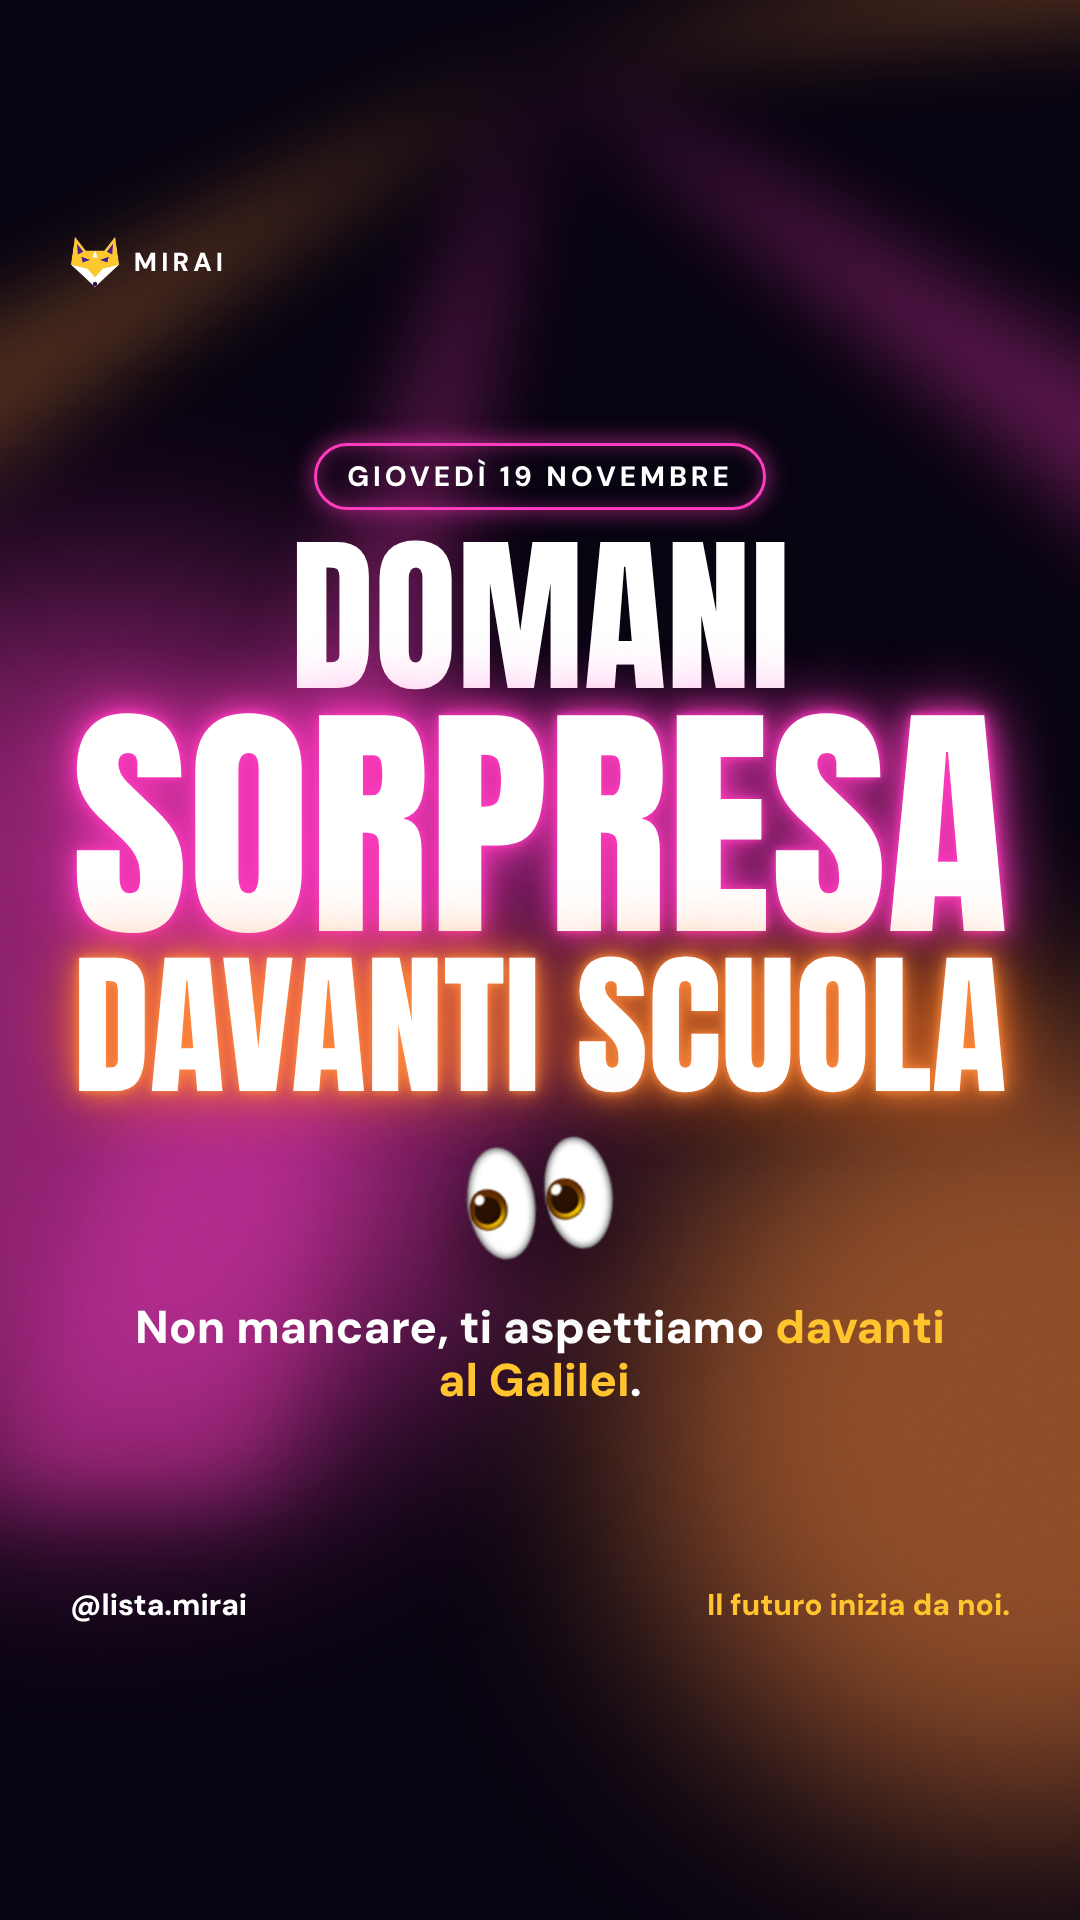
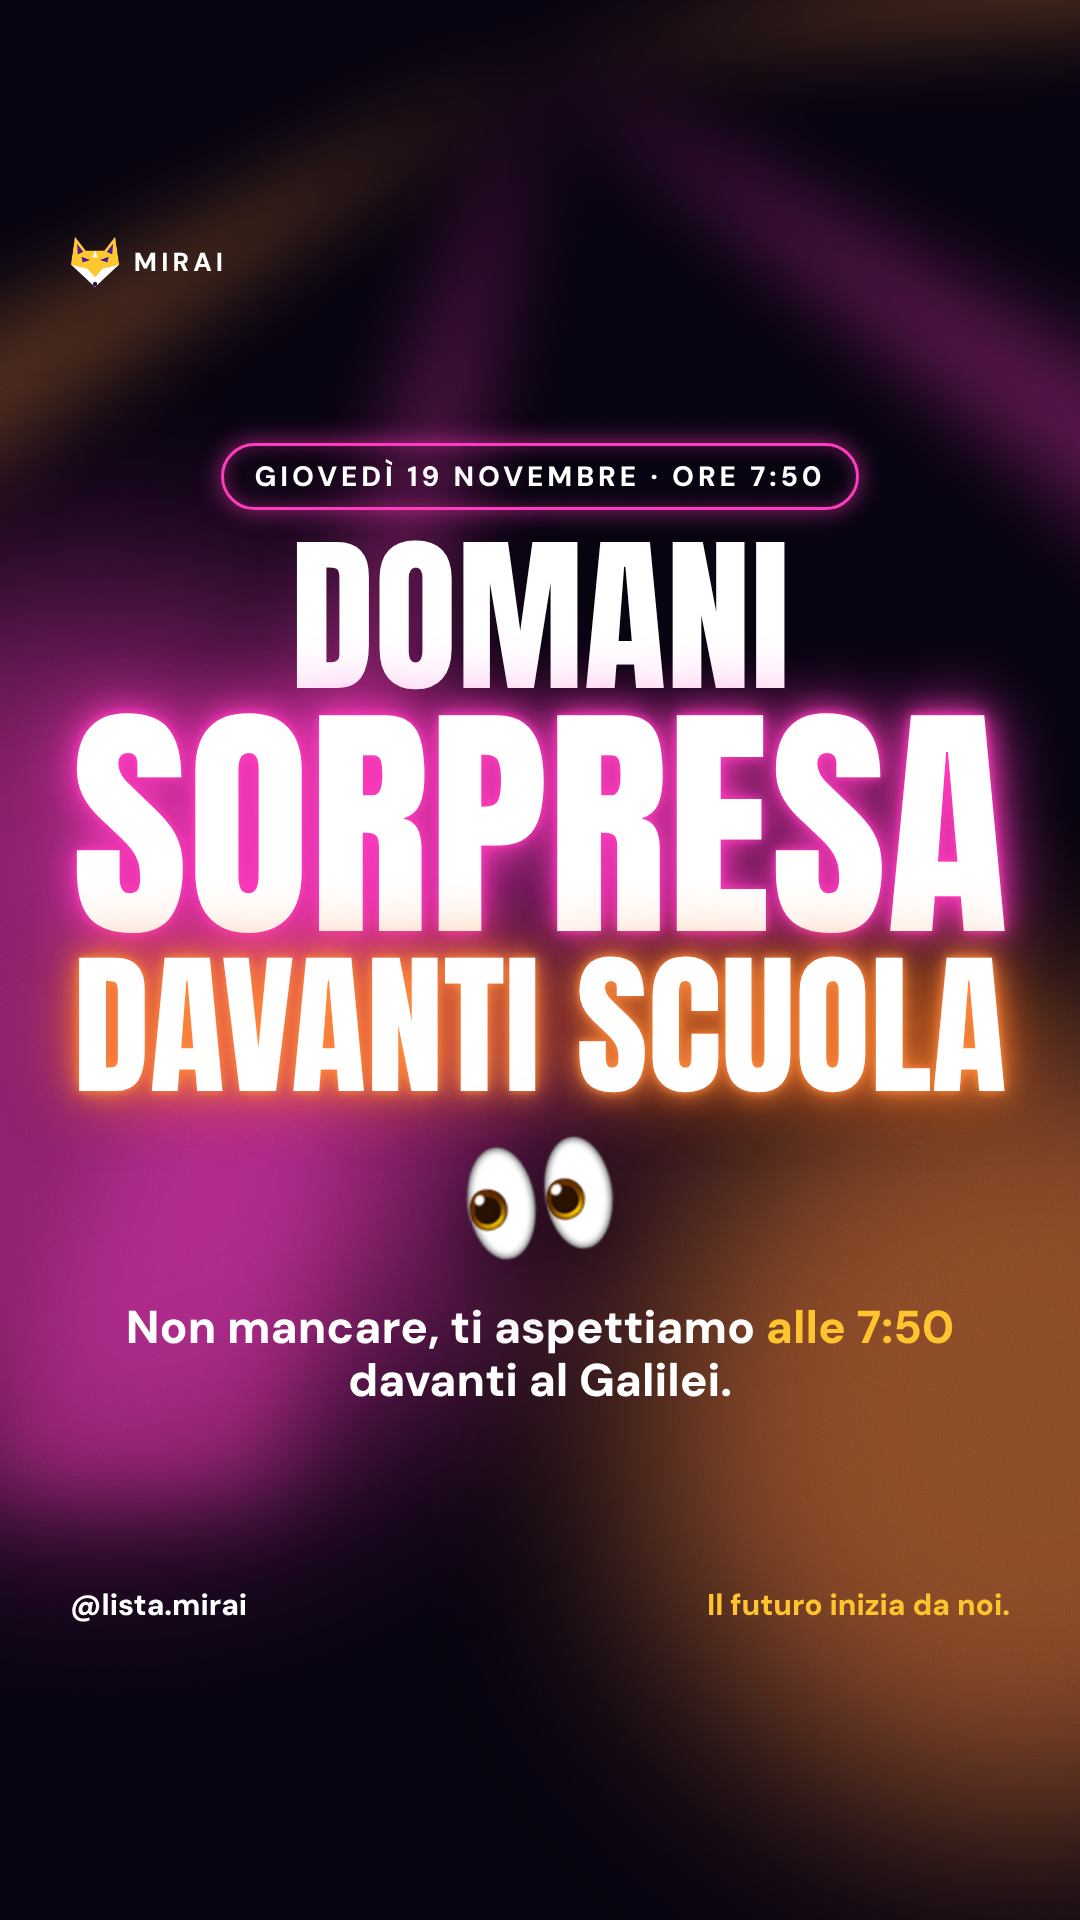
Storie sorpresa: aggiunto orario 7:50
Claude-Session: https://claude.ai/code/session_01R2EF8p8tCb9WtiTgwavMfk

diff --git a/social/campagna/storia-sorpresa.html b/social/campagna/storia-sorpresa.html
@@ -21,8 +21,8 @@
 .ticket .perf{border-top:5px dashed rgba(18,6,43,.35);margin:30px -10px 28px}
 .bars{height:70px;background:repeating-linear-gradient(90deg,#12062b 0 6px,transparent 6px 10px,#12062b 10px 12px,transparent 12px 20px,#12062b 20px 26px,transparent 26px 30px)}
 .url{display:inline-block;background:#ffc42e;color:#12062b;font:800 46px "DM Sans";letter-spacing:.03em;padding:20px 44px;border-radius:99px;transform:rotate(-3deg);box-shadow:0 0 50px rgba(255,196,46,.45),0 20px 40px -12px rgba(0,0,0,.6)}.st{height:1920px}.st .brand{top:236px}.st .foot{bottom:296px}.st .ctr{top:330px;bottom:400px}</style></head><body>
-<section class="s st" id="a"><div class="beam"></div><div class="glow" style="width:900px;height:900px;background:#ff3cbe;left:-350px;top:600px;opacity:.5"></div><div class="glow" style="width:800px;height:800px;background:#ff8a3c;right:-350px;bottom:100px;opacity:.5"></div><div class="brand"><img src="../../assets/fox-96.png" alt="">Mirai</div><div class="ctr"><span class="pill">Giovedì 19 novembre</span><div class="A" style="display:flex;flex-direction:column;align-items:center;gap:8px"><div class="w" data-max="170" data-box="940">Domani</div><div class="pk" data-max="330" data-box="940">sorpresa</div><div class="or" data-max="190" data-box="940">davanti scuola</div></div><img src="img/apple-eyes.png" style="width:150px;height:150px;transform:rotate(-8deg);filter:drop-shadow(0 20px 40px rgba(0,0,0,.6))"><div class="sub" style="font-size:46px;max-width:860px">Non mancare, ti aspettiamo <span style="color:#ffc42e">davanti al Galilei</span>.</div></div><div class="foot"><span>@lista.mirai</span><b>Il futuro inizia da noi.</b></div></section>
-<section class="s st" id="b"><div class="beam" style="transform:scaleX(-1)"></div><div class="glow" style="width:900px;height:900px;background:#ff3cbe;left:-350px;top:600px;opacity:.5"></div><div class="glow" style="width:800px;height:800px;background:#ff8a3c;right:-350px;bottom:100px;opacity:.5"></div><div class="brand"><img src="../../assets/fox-96.png" alt="">Mirai</div><div class="ctr"><span class="pill">Indizio</span><div class="A" style="display:flex;flex-direction:column;align-items:center;gap:6px"><div class="w" data-max="150" data-box="940">Cosa succede domani</div><div class="or" data-max="210" data-box="940">davanti scuola?</div></div><div class="A pk" data-max="520" data-box="500" style="margin-top:6px">?</div><div class="sub" style="font-size:44px;max-width:860px"><span style="color:#ffc42e">Passa a vedere.</span><br>Salva e avvisa i tuoi compagni.</div></div><div class="foot"><span>@lista.mirai</span><b>Il futuro inizia da noi.</b></div></section>
+<section class="s st" id="a"><div class="beam"></div><div class="glow" style="width:900px;height:900px;background:#ff3cbe;left:-350px;top:600px;opacity:.5"></div><div class="glow" style="width:800px;height:800px;background:#ff8a3c;right:-350px;bottom:100px;opacity:.5"></div><div class="brand"><img src="../../assets/fox-96.png" alt="">Mirai</div><div class="ctr"><span class="pill">Giovedì 19 novembre · ore 7:50</span><div class="A" style="display:flex;flex-direction:column;align-items:center;gap:8px"><div class="w" data-max="170" data-box="940">Domani</div><div class="pk" data-max="330" data-box="940">sorpresa</div><div class="or" data-max="190" data-box="940">davanti scuola</div></div><img src="img/apple-eyes.png" style="width:150px;height:150px;transform:rotate(-8deg);filter:drop-shadow(0 20px 40px rgba(0,0,0,.6))"><div class="sub" style="font-size:46px;max-width:860px">Non mancare, ti aspettiamo <span style="color:#ffc42e">alle 7:50</span><br>davanti al Galilei.</div></div><div class="foot"><span>@lista.mirai</span><b>Il futuro inizia da noi.</b></div></section>
+<section class="s st" id="b"><div class="beam" style="transform:scaleX(-1)"></div><div class="glow" style="width:900px;height:900px;background:#ff3cbe;left:-350px;top:600px;opacity:.5"></div><div class="glow" style="width:800px;height:800px;background:#ff8a3c;right:-350px;bottom:100px;opacity:.5"></div><div class="brand"><img src="../../assets/fox-96.png" alt="">Mirai</div><div class="ctr"><span class="pill">Indizio</span><div class="A" style="display:flex;flex-direction:column;align-items:center;gap:6px"><div class="w" data-max="150" data-box="940">Cosa succede domani</div><div class="or" data-max="210" data-box="940">davanti scuola?</div></div><div class="A pk" data-max="520" data-box="500" style="margin-top:6px">?</div><div class="sub" style="font-size:44px;max-width:860px"><span style="color:#ffc42e">Alle 7:50, passa a vedere.</span><br>Salva e avvisa i tuoi compagni.</div></div><div class="foot"><span>@lista.mirai</span><b>Il futuro inizia da noi.</b></div></section>
 
 
 
